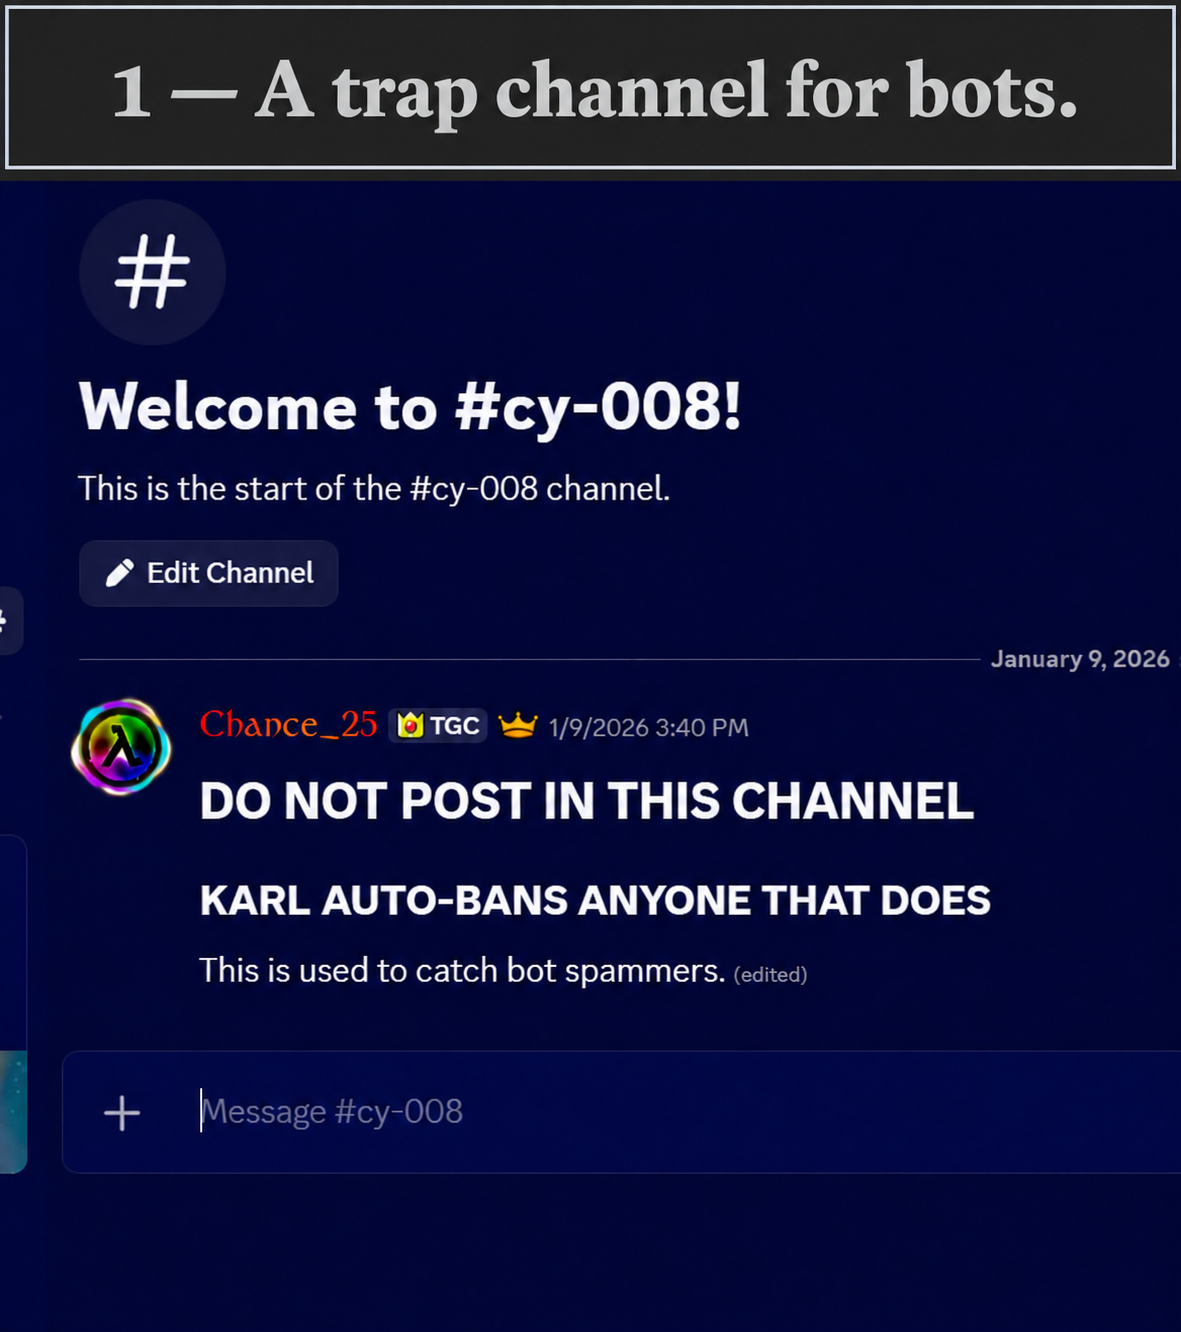
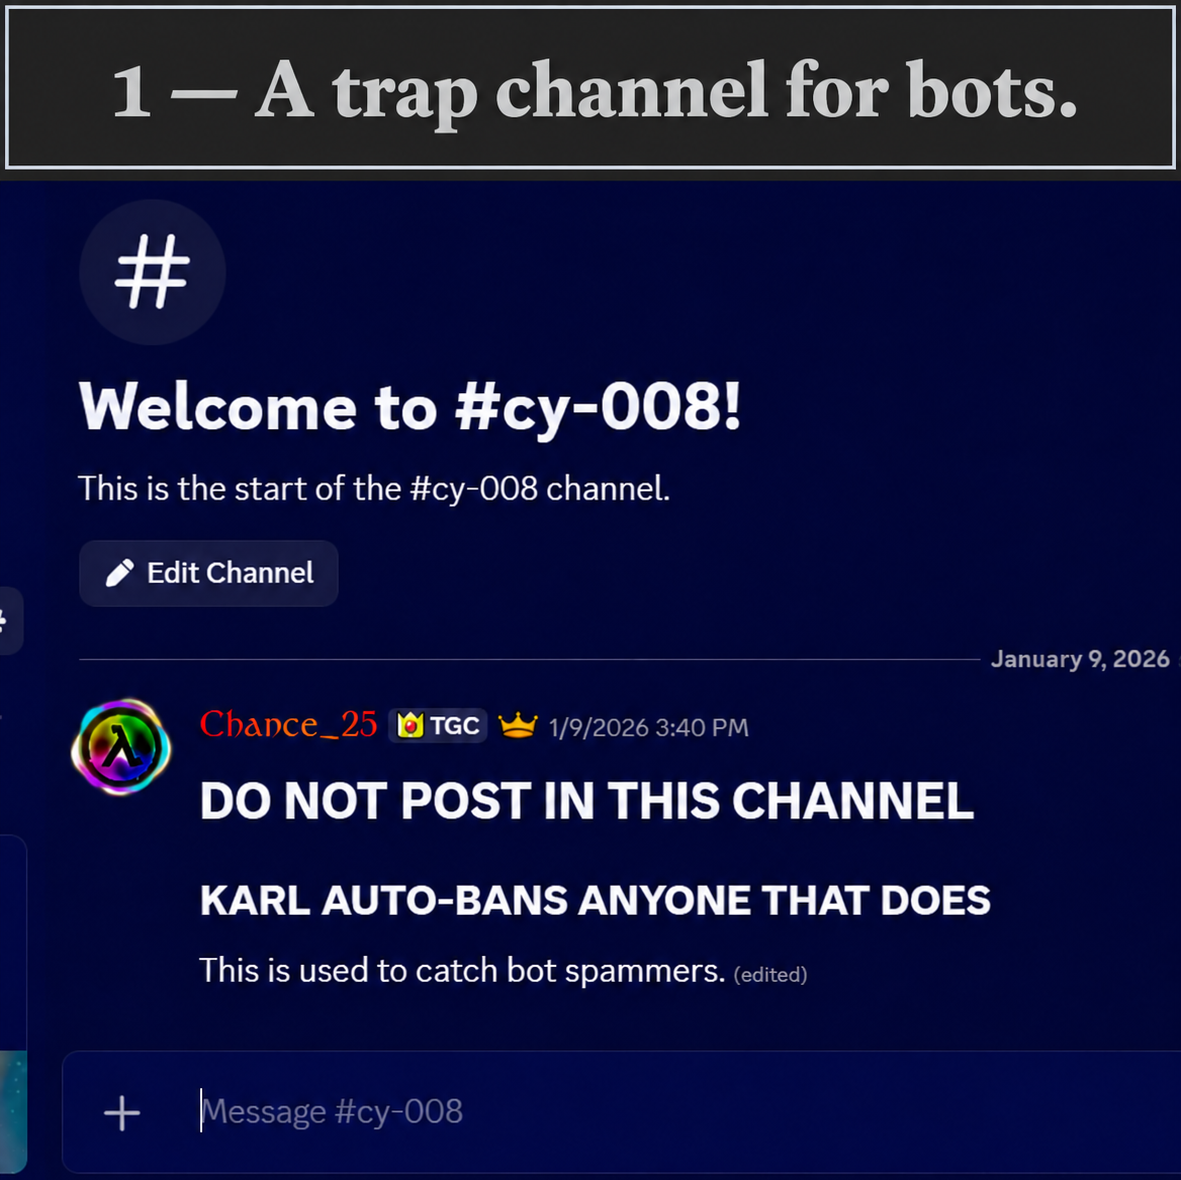
Remove remaining padding from member and trap-channel demo images

diff --git a/README.md b/README.md
@@ -14,7 +14,7 @@ Screenshots and GIFs for Engineer Karl’s Discord privileged intent review.
 
 - [Joining provisions an account — screenshot](assets/demos/member-accounts/01-join-account-provisioning-stage.png)
 - [Departure revokes access and deletes accounts — screenshot](assets/demos/member-accounts/02-departure-account-deletion-stage.png)
-- [Role updates grant or revoke privileged access — screenshot](assets/demos/member-accounts/03-role-access-updates-intent.png)
+- [Role updates grant or revoke privileged access — screenshot](assets/demos/member-accounts/03-role-access-updates-intent-trimmed.png)
 - [Account creation, removal, and access changes — GIF](assets/demos/member-accounts/karl-member-accounts-demo.gif)
 
 ### Member arrival and departure
@@ -32,9 +32,9 @@ Screenshots and GIFs for Engineer Karl’s Discord privileged intent review.
 
 ### Compromised-account response
 
-- [1. Trap channel for bots — screenshot](assets/demos/compromised-accounts/01-trap-channel-stage.png)
+- [1. Trap channel for bots — screenshot](assets/demos/compromised-accounts/01-trap-channel-trimmed.png)
 - [2. Compromised account spreading phishing spam — screenshot](assets/demos/compromised-accounts/02-compromised-account-stage.png)
-- [3. Trap-channel post before removal — screenshot](assets/demos/compromised-accounts/03-trap-channel-post-stage.png)
+- [3. Trap-channel post before removal — screenshot](assets/demos/compromised-accounts/03-trap-channel-post-trimmed.png)
 - [4. Spam cleanup and evidence preservation — screenshot](assets/demos/compromised-accounts/04-cleanup-and-evidence-stage.png)
 - [5. Message and server invite — screenshot](assets/demos/compromised-accounts/05-message-and-invite-stage.png)
 

diff --git a/guild-members.md b/guild-members.md
@@ -6,13 +6,13 @@
 
 Discord role changes update access on TGC's linked platforms.
 
-![Guild Members intent supplies role-change events for access updates](assets/demos/member-accounts/03-role-access-updates-intent.png)
+![Guild Members intent supplies role-change events for access updates](assets/demos/member-accounts/03-role-access-updates-intent-trimmed.png)
 
 ## 2. Join/leave logging
 
 Karl logs when members join or leave Discord.
 
-![Guild Members intent supplies join and leave events for logging](assets/demos/member-arrivals/04-join-leave-log-intent.png)
+![Guild Members intent supplies join and leave events for logging](assets/demos/member-arrivals/04-join-leave-log-intent-trimmed.png)
 
 ## Additional info
 

diff --git a/message-content.md b/message-content.md
@@ -11,7 +11,7 @@ Separate demo pages:
 
 ### Trap channel
 
-![Trap channel for bots and compromised accounts](assets/demos/compromised-accounts/01-trap-channel-stage.png)
+![Trap channel for bots and compromised accounts](assets/demos/compromised-accounts/01-trap-channel-trimmed.png)
 
 ### Spam posted by the compromised account
 
@@ -19,7 +19,7 @@ Separate demo pages:
 
 ### Trap-channel post before removal
 
-![Account posts in the trap channel before removal](assets/demos/compromised-accounts/03-trap-channel-post-stage.png)
+![Account posts in the trap channel before removal](assets/demos/compromised-accounts/03-trap-channel-post-trimmed.png)
 
 ### Spam cleanup and evidence preservation
 

diff --git a/message-content-compromised-accounts.md b/message-content-compromised-accounts.md
@@ -4,7 +4,7 @@
 
 ## Trap channel
 
-![Trap channel for bots and compromised accounts](assets/demos/compromised-accounts/01-trap-channel-stage.png)
+![Trap channel for bots and compromised accounts](assets/demos/compromised-accounts/01-trap-channel-trimmed.png)
 
 ## Spam posted by the compromised account
 
@@ -12,7 +12,7 @@
 
 ## Trap-channel post before removal
 
-![Account posts in the trap channel before removal](assets/demos/compromised-accounts/03-trap-channel-post-stage.png)
+![Account posts in the trap channel before removal](assets/demos/compromised-accounts/03-trap-channel-post-trimmed.png)
 
 ## Spam cleanup and evidence preservation
 
